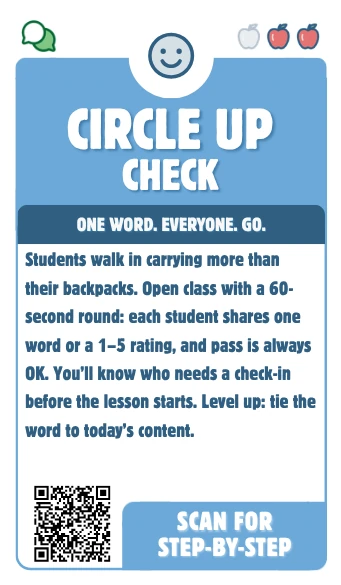
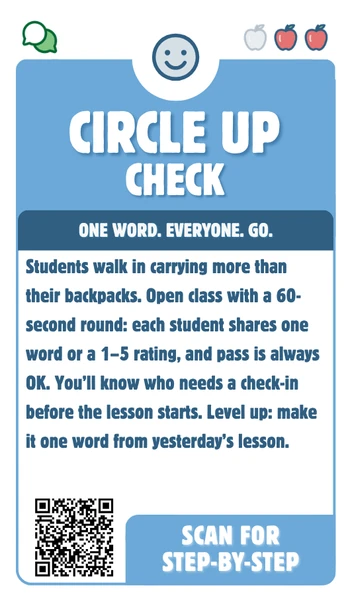
Learning-payoff Level ups for Door Greeter, Circle Up Check, Hidden Hero
Claude-Session: https://claude.ai/code/session_01NtReemJb8tF9F5LXTnFjFT

diff --git a/public/circle-up-check.html b/public/circle-up-check.html
@@ -30,7 +30,7 @@
 <main class="wrap" id="main">
 <nav class="jump" aria-label="On this page"><a href="#steps">Steps</a><a href="#glance">At a glance</a><a href="#picture">Diagram</a><a href="#examples">Examples</a><a href="#deeper">Go deeper</a></nav>
 <div class="layout">
-<section class="move" id="move"><a class="cardimg" href="/cards/circle-up-check.webp?v=2" data-cardimg><img src="/cards/circle-up-check.webp?v=2" width="341" height="585" alt="The printed Circle Up Check card"><span>Tap to enlarge</span></a><h2>The move</h2><p>Every student shares one word or a 1–5 rating about how they’re arriving, in a quick round with no discussion.</p></section>
+<section class="move" id="move"><a class="cardimg" href="/cards/circle-up-check.webp?v=3" data-cardimg><img src="/cards/circle-up-check.webp?v=3" width="341" height="585" alt="The printed Circle Up Check card"><span>Tap to enlarge</span></a><h2>The move</h2><p>Every student shares one word or a 1–5 rating about how they’re arriving, in a quick round with no discussion.</p></section>
 <section id="steps"><div class="h-row"><h2>Step by step</h2><button type="button" class="btn-ghost" data-open-run><svg viewBox="0 0 24 24" aria-hidden="true"><path d="M8 5v14l11-7z"/></svg>Class slides</button></div><div class="lflow"><p class="lflow-h">Step timing</p><ol><li style="flex:20"><span class="n">1</span><span class="lab">Set the prompt</span><span class="dur">10 seconds</span></li><li style="flex:20"><span class="n">2</span><span class="lab">Think</span><span class="dur">10 seconds</span></li><li style="flex:60"><span class="n">3</span><span class="lab">Go around</span><span class="dur">60 seconds</span></li></ol></div><ol class="steps">
 <li><div><strong>Set the prompt</strong><span class="when">10 seconds</span><span class="say">“One word for how you’re showing up today. Or a number, 1 to 5.”</span></div></li>
 <li><div><strong>Think</strong><span class="when">10 seconds</span><span class="say">“Got it? Thumbs up when ready.”</span></div></li>
@@ -44,7 +44,7 @@
 <section id="deeper" class="deeper"><h2>Go deeper</h2><p class="deeper-sub muted">Tap a topic to open it.</p>
 <details class="more" id="why"><summary><h2>Why it works</h2></summary><div class="more-b"><p>A quick round tells you who might need a check-in before the lesson starts, and it gives every student a voice in the first minute. Hearing classmates also builds a sense that the room is a community. Keep it short and optional so it stays low-pressure.</p></div></details>
 <details class="more"><summary><h2>Watch out for</h2></summary><div class="more-b"><ul class="list"><li><b>Long stories:</b> one word means one word.</li><li><b>Silly answers:</b> laugh once and move on; it still builds community.</li><li><b>Sensitive answers:</b> never respond in front of the class; follow up privately.</li></ul></div></details>
-<details class="more"><summary><h2>Level up</h2></summary><div class="more-b"><ul class="list"><li>Tie the word to the content: “One word you remember from yesterday.”</li><li>Students pass the turn with a nod, no hands needed, so the round runs without you.</li></ul></div></details>
+<details class="more"><summary><h2>Level up</h2></summary><div class="more-b"><ul class="list"><li>Make it one word from yesterday’s lesson. The check-in becomes a quick retrieval round.</li><li>Students pass the turn with a nod, no hands needed, so the round runs without you.</li></ul></div></details>
 <details class="more"><summary><h2>Make it work for everyone</h2></summary><div class="more-b"><ul class="list"><li><b>Multilingual learners:</b> allow a word in any language, or a number.</li><li><b>IEP and 504 supports:</b> let students hold up fingers or a feelings chart instead of speaking.</li></ul></div></details>
 <details class="more"><summary><h2>Tech upgrades</h2></summary><div class="more-b"><p class="muted tech-sub">Free tools that change the task, not just the medium.</p><ul class="techlist"><li><span class="lv lv-m">Modify</span><b>Google Forms daily check-in</b><span class="tx">A private 1–5 plus one word. Conditional formatting in the response Sheet flags any student with two low days in a row.</span></li><li><span class="lv lv-a">Augment</span><b>Mentimeter word cloud</b><span class="tx">An anonymous word cloud shows the room’s mood at a glance when sharing aloud feels like too much.</span></li></ul></div></details>
 <details class="more" id="ai"><summary><h2>AI prompts</h2></summary><div class="more-b"><p class="muted tech-sub">Copy, fill in the [brackets] and paste into Gemini, ChatGPT or Claude. Leave out student names and personal details.</p><div class="prompt"><div class="prompt-h"><b>Make the materials</b><button type="button" class="btn-ghost copy" data-copy>Copy</button></div><p class="prompt-t">I teach [grade] [subject]. We are working on [topic]. Give me 20 quick check-in prompts for a [grade] class, from light to reflective (for example &quot;One word for your weekend&quot;). Mark which ones work for a day when the class seems low. Before you finish: Nothing that asks students to share private information. Write at a level my students can read. If anything above is unclear, ask me up to 3 questions before you start.</p></div></div></details>

diff --git a/public/door-greeter.html b/public/door-greeter.html
@@ -30,7 +30,7 @@
 <main class="wrap" id="main">
 <nav class="jump" aria-label="On this page"><a href="#steps">Steps</a><a href="#glance">At a glance</a><a href="#picture">Diagram</a><a href="#examples">Examples</a><a href="#deeper">Go deeper</a></nav>
 <div class="layout">
-<section class="move" id="move"><a class="cardimg" href="/cards/door-greeter.webp" data-cardimg><img src="/cards/door-greeter.webp" width="341" height="585" alt="The printed Door Greeter card"><span>Tap to enlarge</span></a><h2>The move</h2><p>Stand at the door and greet each student by name with a quick, positive word before they walk in.</p></section>
+<section class="move" id="move"><a class="cardimg" href="/cards/door-greeter.webp?v=3" data-cardimg><img src="/cards/door-greeter.webp?v=3" width="341" height="585" alt="The printed Door Greeter card"><span>Tap to enlarge</span></a><h2>The move</h2><p>Stand at the door and greet each student by name with a quick, positive word before they walk in.</p></section>
 <section id="steps"><div class="h-row"><h2>Step by step</h2><button type="button" class="btn-ghost" data-open-run><svg viewBox="0 0 24 24" aria-hidden="true"><path d="M8 5v14l11-7z"/></svg>Class slides</button></div><ol class="steps">
 <li><div><strong>Post a warm-up</strong><span class="when">Before passing time</span><span class="txt">A short task on the board that students start as soon as they sit down.</span></div></li>
 <li><div><strong>Stand at the door</strong><span class="txt">One foot in the hall, one in the room, so you can see both.</span></div></li>
@@ -44,7 +44,7 @@
 <section id="deeper" class="deeper"><h2>Go deeper</h2><p class="deeper-sub muted">Tap a topic to open it.</p>
 <details class="more" id="why"><summary><h2>Why it works</h2></summary><div class="more-b"><p>A personal greeting tells each student they belong here, and it gives you a quick read on everyone’s mood before class starts. In a study of middle school classrooms, teachers who greeted students positively at the door saw more time spent engaged in learning and less disruptive behavior. It costs no class time.</p></div></details>
 <details class="more"><summary><h2>Watch out for</h2></summary><div class="more-b"><ul class="list"><li><b>Hallway duty at the same time:</b> greet from the doorway so you can see the hall too.</li><li><b>Conversations that run long:</b> keep it to a few seconds and continue later.</li><li><b>Skipping students who are hard to reach:</b> they often need the greeting most.</li><li><b>Late arrivals:</b> greet them quietly at their seat so the routine stays warm.</li></ul></div></details>
-<details class="more"><summary><h2>Level up</h2></summary><div class="more-b"><ul class="list"><li>Let students choose their own greeting.</li><li>Learn one personal detail about each student and use it in your greeting within two weeks.</li></ul></div></details>
+<details class="more"><summary><h2>Level up</h2></summary><div class="more-b"><ul class="list"><li>Ask each student one quick question from yesterday as they walk in. A two-second answer at the door is daily review before class even starts.</li><li>Let students choose their own greeting.</li><li>Learn one personal detail about each student and use it in your greeting within two weeks.</li></ul></div></details>
 <details class="more"><summary><h2>Make it work for everyone</h2></summary><div class="more-b"><ul class="list"><li><b>Multilingual learners:</b> learn to say hello in students’ home languages.</li><li><b>Students with sensory needs:</b> always offer a no-touch option such as a wave or a nod.</li><li><b>Students with a tough history at school:</b> a consistent, warm greeting every day matters more than what you say.</li></ul></div></details>
 <details class="more"><summary><h2>Tech upgrades</h2></summary><div class="more-b"><p class="muted tech-sub">Free tools that change the task, not just the medium.</p><ul class="techlist"><li><span class="lv lv-a">Augment</span><b>Classroomscreen or a Google Slides do-now</b><span class="tx">Have the warm-up on screen before students arrive so you can stay at the door.</span></li><li><span class="lv lv-m">Modify</span><b>Google Forms do-now</b><span class="tx">Students answer the warm-up in a form, so you can read every response before the lesson starts.</span></li></ul></div></details>
 <details class="more" id="ai"><summary><h2>AI prompts</h2></summary><div class="more-b"><p class="muted tech-sub">Copy, fill in the [brackets] and paste into Gemini, ChatGPT or Claude. Leave out student names and personal details.</p><div class="prompt"><div class="prompt-h"><b>Make the materials</b><button type="button" class="btn-ghost copy" data-copy>Copy</button></div><p class="prompt-t">I teach [grade] [subject]. We are working on [topic]. Give me 10 do-now warm-ups for [topic] that students can start without any directions from me, each under 3 minutes, mixing recall, a quick write and a puzzle. Before you finish: Each must be doable with only paper and pencil. Write at a level my students can read. If anything above is unclear, ask me up to 3 questions before you start.</p></div></div></details>

diff --git a/public/hidden-hero.html b/public/hidden-hero.html
@@ -30,7 +30,7 @@
 <main class="wrap" id="main">
 <nav class="jump" aria-label="On this page"><a href="#steps">Steps</a><a href="#glance">At a glance</a><a href="#picture">Diagram</a><a href="#examples">Examples</a><a href="#deeper">Go deeper</a></nav>
 <div class="layout">
-<section class="move" id="move"><a class="cardimg" href="/cards/hidden-hero.webp" data-cardimg><img src="/cards/hidden-hero.webp" width="341" height="585" alt="The printed Hidden Hero card"><span>Tap to enlarge</span></a><h2>The move</h2><p>Find a student you rarely recognize and give them one sincere compliment that names something specific they did.</p></section>
+<section class="move" id="move"><a class="cardimg" href="/cards/hidden-hero.webp?v=3" data-cardimg><img src="/cards/hidden-hero.webp?v=3" width="341" height="585" alt="The printed Hidden Hero card"><span>Tap to enlarge</span></a><h2>The move</h2><p>Find a student you rarely recognize and give them one sincere compliment that names something specific they did.</p></section>
 <section id="steps"><div class="h-row"><h2>Step by step</h2></div><div class="lflow"><p class="lflow-h">Step timing</p><ol><li style="flex:20"><span class="n">3</span><span class="lab">Name the action</span><span class="dur">10 seconds</span></li><li style="flex:20"><span class="n">5</span><span class="lab">Log it</span><span class="dur">5 seconds</span></li></ol><p class="flow-prep"><b>Before class:</b> Scan your roster</p></div><ol class="steps">
 <li><div><strong>Scan your roster</strong><span class="when">30 seconds, before class</span><span class="txt">Put a dot by students you haven’t recognized lately. Pick one.</span></div></li>
 <li><div><strong>Watch for a moment</strong><span class="when">During class</span><span class="txt">Effort, a good question, helping someone, a strategy, improvement.</span></div></li>
@@ -44,7 +44,7 @@
 <section id="deeper" class="deeper"><h2>Go deeper</h2><p class="deeper-sub muted">Tap a topic to open it.</p>
 <details class="more" id="why"><summary><h2>Why it works</h2></summary><div class="more-b"><p>Some students go weeks without hearing anything specific about their work. Recognition that names an action (“You checked every step twice”) tells students what to keep doing and builds the relationship. Praise aimed at the person (“You’re so smart”) is far less useful, so the key is naming what they did.</p></div></details>
 <details class="more"><summary><h2>Watch out for</h2></summary><div class="more-b"><ul class="list"><li><b>Generic praise (“Good job!”):</b> always name the specific action.</li><li><b>Praising ability (“You’re a natural”):</b> praise effort, strategy or choices instead.</li><li><b>Public praise that embarrasses:</b> go private for students who don’t like attention.</li></ul></div></details>
-<details class="more"><summary><h2>Level up</h2></summary><div class="more-b"><ul class="list"><li>Catch a hidden hero in every class period.</li><li>Write a two-line note so they can take it home.</li></ul></div></details>
+<details class="more"><summary><h2>Level up</h2></summary><div class="more-b"><ul class="list"><li>Name the strategy they used so classmates can borrow it: “Jordan checked his units. Try that on number 4.”</li><li>Catch a hidden hero in every class period.</li><li>Write a two-line note so they can take it home.</li></ul></div></details>
 <details class="more"><summary><h2>Make it work for everyone</h2></summary><div class="more-b"><ul class="list"><li><b>Multilingual learners:</b> keep it simple and pair it with a smile or thumbs up.</li><li><b>IEP and 504 supports:</b> recognize progress toward their goals, not just grade-level work.</li></ul></div></details>
 <details class="more"><summary><h2>Tech upgrades</h2></summary><div class="more-b"><p class="muted tech-sub">Free tools that change the task, not just the medium.</p><ul class="techlist"><li><span class="lv lv-m">Modify</span><b>Google Sheets recognition roster</b><span class="tx">Checkbox and date columns, with conditional formatting that highlights anyone not recognized in two weeks.</span></li><li><span class="lv lv-a">Augment</span><b>Google Keep reminder</b><span class="tx">A daily reminder with the name of today’s student.</span></li></ul></div></details>
 <details class="more" id="ai"><summary><h2>AI prompts</h2></summary><div class="more-b"><p class="muted tech-sub">Copy, fill in the [brackets] and paste into Gemini, ChatGPT or Claude. Leave out student names and personal details.</p><div class="prompt"><div class="prompt-h"><b>Make the materials</b><button type="button" class="btn-ghost copy" data-copy>Copy</button></div><p class="prompt-t">I teach [grade] [subject]. We are working on [topic]. Give me 20 examples of specific, sincere praise that names an action (effort, strategy, kindness, improvement) for [grade] students, and 5 examples of vague praise rewritten to be specific. Before you finish: No praise about intelligence or talent. Write at a level my students can read. If anything above is unclear, ask me up to 3 questions before you start.</p></div></div></details>

diff --git a/public/sw.js b/public/sw.js
@@ -1,5 +1,5 @@
 /* Lesson Shuffle offline support. Generated by build_sw.py; version changes when any file changes. */
-const V = 'ls-4b8031eab9';
+const V = 'ls-f82c80fb5c';
 const CORE = ["/", "/boards-up", "/brain-busters", "/change-my-mind", "/circle-up-check", "/concept-clash", "/culture-check", "/disrupt-detour", "/door-greeter", "/echo-and-elevate", "/every-hand-up", "/explicit-essentials", "/feedback-flow", "/fix-this", "/flash-back", "/flow-finder", "/focus-frame", "/front-no-more", "/glow-grow-go", "/goal-getter", "/growth-goals", "/hidden-hero", "/hook-line", "/how-to-play", "/ignite-bites", "/kudos-call", "/learning-walk", "/light-lift", "/map-it-out", "/meta-matters", "/move-and-speak", "/passing-connection", "/pulse-check", "/question-storm", "/quiz-lab", "/reading-relay", "/reality-check", "/routine-refresh", "/seat-smart", "/seeds-of-insight", "/shuffle-practice", "/silent-signals", "/sketch-it", "/submit", "/talk-less-do-more", "/task-masters", "/teach-swap", "/ten-po-shift", "/text-talks", "/think-pair-rotate-share", "/udl-diy", "/visible-thinking", "/voice-and-choice", "/word-wise", "/write-first", "/style.css", "/site.js", "/logo.webp?v=2", "/favicon.png", "/manifest.webmanifest", "/icon-192.png", "/icon-512.png", "/fonts/days-one-latin-400-normal.woff2", "/fonts/rubik-latin-400-italic.woff2", "/fonts/rubik-latin-400-normal.woff2", "/fonts/rubik-latin-500-normal.woff2", "/fonts/rubik-latin-600-normal.woff2", "/fonts/rubik-latin-700-normal.woff2"];
 const IMGS = ["/cards/boards-up.webp", "/cards/brain-busters.webp", "/cards/change-my-mind.webp", "/cards/circle-up-check.webp", "/cards/concept-clash.webp", "/cards/culture-check.webp", "/cards/disrupt-detour.webp", "/cards/door-greeter.webp", "/cards/echo-and-elevate.webp", "/cards/every-hand-up.webp", "/cards/explicit-essentials.webp", "/cards/feedback-flow.webp", "/cards/fix-this.webp", "/cards/flash-back.webp", "/cards/flow-finder.webp", "/cards/focus-frame.webp", "/cards/front-no-more.webp", "/cards/glow-grow-go.webp", "/cards/goal-getter.webp", "/cards/growth-goals.webp", "/cards/hidden-hero.webp", "/cards/hook-line.webp", "/cards/ignite-bites.webp", "/cards/kudos-call.webp", "/cards/learning-walk.webp", "/cards/light-lift.webp", "/cards/map-it-out.webp", "/cards/meta-matters.webp", "/cards/move-and-speak.webp", "/cards/passing-connection.webp", "/cards/pulse-check.webp", "/cards/question-storm.webp", "/cards/quiz-lab.webp", "/cards/reading-relay.webp", "/cards/reality-check.webp", "/cards/routine-refresh.webp", "/cards/seat-smart.webp", "/cards/seeds-of-insight.webp", "/cards/shuffle-practice.webp", "/cards/silent-signals.webp", "/cards/sketch-it.webp", "/cards/talk-less-do-more.webp", "/cards/task-masters.webp", "/cards/teach-swap.webp", "/cards/ten-po-shift.webp", "/cards/text-talks.webp", "/cards/think-pair-rotate-share.webp", "/cards/udl-diy.webp", "/cards/visible-thinking.webp", "/cards/voice-and-choice.webp", "/cards/word-wise.webp", "/cards/write-first.webp"];
 self.addEventListener('install', e => {
